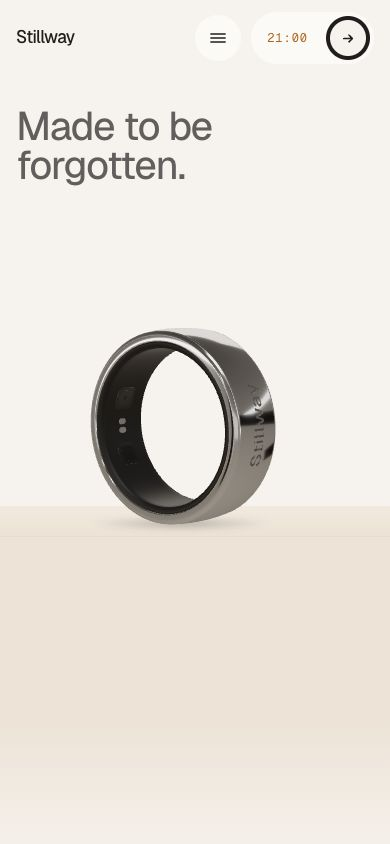
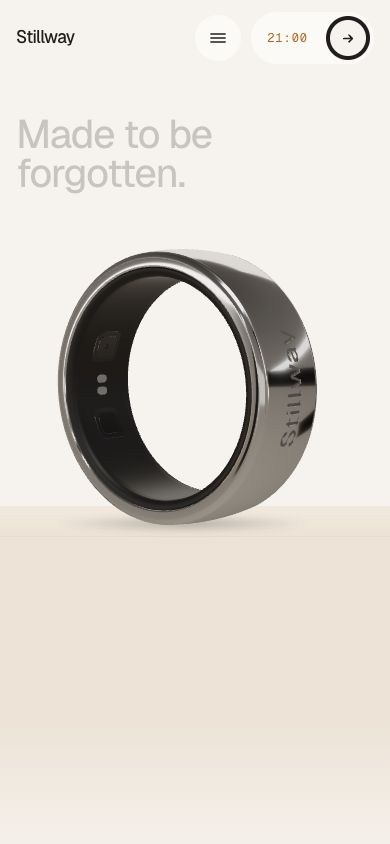
fix(web-v2): D-093 round 1 — bigger S06 ring, 3D ring stays on the finger, readable body and caption
- S06 states 1-3: the standing ring is the figure (60% of the height desktop,
  70vw phone), headline and steps stay clear on the left; contact shadow scales
- S06 state 4: no switch to A-1b (brushed); the polished 3D ring stays at the
  seat (D-085) and follows the hand card out in 06->07; finger proxy fixed
  (profile reversed + double sided, it now hides the back of the band) and a
  soft contact shadow under the band. A-1b only for reduced motion / no WebGL
- S06 body 15px Ink (as S04)
- S07 state 5: caption under 'Everyday' on a Paper chip, clear of the card
- reduced motion: polished still on the plinth for S06 states 1-3; dev-only
  ?reduced-test on localhost for review shots

Changed region(s): [[0.1231, 0.2773, 0.8308, 0.6161], [0.0308, 0.1232, 0.5538, 0.2464]]

diff --git a/web-v2/src/scripts/sections/details.ts b/web-v2/src/scripts/sections/details.ts
@@ -26,7 +26,8 @@ function layout(ctx: Ctx) {
   const W = window.innerWidth;
   const H = window.innerHeight;
   const m = ctx.mobile;
-  const D = m ? Math.min(W * 0.5, H * 0.26) : H * 0.3;
+  // D-093 r1: the standing ring is the figure of the screen (Ultrahuman ref ±55–65% of the height)
+  const D = m ? Math.min(W * 0.7, H * 0.36) : Math.min(H * 0.6, W * 0.36);
   const py = H * (m ? 0.6 : 0.74); // plinth top
   const face = H * 0.036;
   const cy = py + face * 0.55 - D / 2; // the ring stands on the middle of the top face
@@ -48,6 +49,12 @@ function setVars(ctx: Ctx) {
   root.style.setProperty('--hy', `${L.hy.toFixed(1)}px`);
   root.style.setProperty('--hs', L.hs.toFixed(4));
   root.style.setProperty('--py', `${L.py.toFixed(1)}px`);
+  // reduced motion / no WebGL: polished still (fb-s02, ring 84.6% of the image height) on the plinth
+  const fbw = L.D / 0.846;
+  const cx = (0.5 + (ctx.mobile ? -0.02 : 0.12)) * L.W;
+  root.style.setProperty('--fbw', `${fbw.toFixed(1)}px`);
+  root.style.setProperty('--fbx', `${(cx - 0.528 * fbw).toFixed(1)}px`);
+  root.style.setProperty('--fby', `${(L.py + L.face * 0.55 - 0.918 * fbw).toFixed(1)}px`);
   return L;
 }
 
@@ -62,8 +69,8 @@ const SIDE = { rx: 0, ry: -Math.PI / 2 + 0.08, rz: 0, spin: 0, pitch: 0.12 };
 const EDGE = { rx: 0, ry: -Math.PI / 4, rz: 0, spin: 0, pitch: 20 * D2R };
 
 function rollX(u: number, ctx: Ctx, L: ReturnType<typeof layout>) {
-  const start = ctx.mobile ? -0.42 : -0.5;
-  const stop = ctx.mobile ? -0.02 : 0.05;
+  const start = ctx.mobile ? -0.42 : -0.43;
+  const stop = ctx.mobile ? -0.02 : 0.12;
   const over = stop + (0.06 * L.D) / 2 / L.W;
   const t = ctx.reduced ? 1 : clamp01(u);
   // 0 → 22%: power2.out to a little past the stop; 22 → 25%: sine back (s06-pose.json rolling)
@@ -121,6 +128,51 @@ function fingerPose(slide: number, L: ReturnType<typeof layout>, extra: Partial<
   });
 }
 
+/**
+ * 06 → 07 (Storyboard §3): the hand photo shrinks into a card with rounded corners around the
+ * finger, moves to the centre (where S07's cards appear) and fades. leave 0..1 (eased).
+ */
+function cardLeave(leave: number, L: ReturnType<typeof layout>, ctx: Ctx) {
+  const k = seg(leave, 0, 0.55);
+  const cw = Math.min(L.W * (ctx.mobile ? 0.5 : 0.2), L.H * 0.36);
+  const ch = cw * 1.25;
+  const cx = L.seat.x;
+  const cy = L.hy + 300 * L.hs;
+  const mv = seg(leave, 0.15, 0.6);
+  return {
+    k,
+    t: lerp(0, cy - ch / 2, k),
+    b: lerp(0, L.H - (cy + ch / 2), k),
+    l: lerp(0, cx - cw / 2, k),
+    r: lerp(0, L.W - (cx + cw / 2), k),
+    mx: (L.W / 2 - cx) * mv,
+    my: (L.H / 2 - cy) * mv,
+    s: 1 - 0.35 * seg(leave, 0.2, 0.6),
+    o: 1 - seg(leave, 0.5, 0.7),
+  };
+}
+
+/** the 3D ring on the finger follows the card out (it is not part of the photo, D-093 r1) */
+export function detailsLeaveRing(x: number, ctx: Ctx): Pose {
+  const L = layout(ctx);
+  const leave = seg(x, 0, 1);
+  const c = cardLeave(leave, L, ctx);
+  const p = fingerPose(1, L, { shadow: 0 });
+  // card transform: translate(mx, my) scale(s) about the viewport centre
+  const sx = L.W / 2 + (L.seat.x - L.W / 2) * c.s + c.mx;
+  const sy = L.H / 2 + (L.seat.y - L.H / 2) * c.s + c.my;
+  return {
+    ...p,
+    x: fx(sx, L.W),
+    y: fy(sy, L.H),
+    w: p.w * c.s,
+    fx: fx(sx, L.W),
+    fy: fy(sy, L.H),
+    fs: p.fs * c.s,
+    alpha: c.o,
+  };
+}
+
 export const details: SectionMotion = {
   init(r) {
     root = r;
@@ -131,6 +183,7 @@ export const details: SectionMotion = {
       card: q('[data-d-card]'),
       hand: q('[data-d-hand]'),
       ringed: q('[data-d-ringed]'),
+      seatShadow: q('[data-d-seat]'),
       head: q('[data-d-head]'),
       fits: q('[data-d-fits]'),
       label: q('[data-d-label]'),
@@ -149,9 +202,12 @@ export const details: SectionMotion = {
       const p = plinthPose(Math.max(0, u), ctx, L);
       const wpx = L.D * (0.92 * Math.abs(Math.cos(p.ry)) + 0.36 * Math.abs(Math.sin(p.ry)));
       el.shadow.style.width = `${wpx.toFixed(1)}px`;
+      const sh = L.D * 0.07;
+      el.shadow.style.height = `${sh.toFixed(1)}px`;
+      el.shadow.style.top = `${(L.face * 0.55 - sh / 2).toFixed(1)}px`;
       el.shadow.style.left = `${((p.x + 0.5) * L.W - wpx / 2 + L.W * 0.04).toFixed(1)}px`;
     }
-    put(el.head, { o: window4(u, ctx.reduced ? -0.5 : 0.45, 0.75, 3.05, 3.35), y: (1 - seg(u, 0.45, 0.75)) * 16 }, ctx);
+    put(el.head, { o: window4(u, ctx.reduced ? -0.5 : 0.55, 0.85, 3.05, 3.35), y: (1 - seg(u, 0.55, 0.85)) * 16 }, ctx);
     steps.forEach((s, i) => {
       const a = 1.4 + i;
       put(s, { o: window4(u, a, a + 0.35, a + 0.85, a + 1.15), y: (1 - seg(u, a, a + 0.35)) * 14 }, ctx);
@@ -162,31 +218,21 @@ export const details: SectionMotion = {
 
     // hand: fades in with the end of the plinth, slight rise
     const hand = seg(u, 3.1, 3.5);
-    if (el.ringed) el.ringed.style.opacity = seg(u, 3.88, 3.98).toFixed(3);
+    // D-093 r1: the polished 3D ring stays on the finger (D-085); A-1b only without WebGL / reduced motion
+    const live = document.documentElement.classList.contains('ring-ready');
+    if (el.ringed) el.ringed.style.opacity = live ? '0' : seg(u, 3.88, 3.98).toFixed(3);
+    put(el.seatShadow, { o: live ? seg(u, 3.75, 3.92) : 0 }, ctx);
     // 06 → 07 (Storyboard §3): the hand photo shrinks into a card with rounded corners, then fades
-    const shrink = seg(leave, 0, 0.55);
     if (el.card && root) {
-      // card = portrait box around the finger, centred on the screen when it is done
-      const cw = Math.min(L.W * (ctx.mobile ? 0.5 : 0.2), L.H * 0.36);
-      const ch = cw * 1.25;
-      const cx = L.seat.x;
-      const cy = L.hy + 300 * L.hs;
-      const k = shrink;
-      const t = lerp(0, cy - ch / 2, k);
-      const b = lerp(0, L.H - (cy + ch / 2), k);
-      const l = lerp(0, cx - cw / 2, k);
-      const r = lerp(0, L.W - (cx + cw / 2), k);
+      const c = cardLeave(leave, L, ctx);
       const cs = el.card.style;
-      cs.setProperty('--ct', `${t.toFixed(1)}px`);
-      cs.setProperty('--cb', `${b.toFixed(1)}px`);
-      cs.setProperty('--cl', `${l.toFixed(1)}px`);
-      cs.setProperty('--cr', `${r.toFixed(1)}px`);
-      cs.setProperty('--cr0', `${(14 * k).toFixed(1)}px`);
-      cs.setProperty('--cbg', k > 0.001 ? '1' : '0');
-      // move the card toward the centre of the screen (where S07's Night card appears)
-      const mx = (L.W / 2 - cx) * seg(leave, 0.15, 0.6);
-      const my = (L.H / 2 - cy) * seg(leave, 0.15, 0.6);
-      put(el.card, { o: hand * (1 - seg(leave, 0.5, 0.7)), x: mx, y: my, s: 1 - 0.35 * seg(leave, 0.2, 0.6) }, ctx);
+      cs.setProperty('--ct', `${c.t.toFixed(1)}px`);
+      cs.setProperty('--cb', `${c.b.toFixed(1)}px`);
+      cs.setProperty('--cl', `${c.l.toFixed(1)}px`);
+      cs.setProperty('--cr', `${c.r.toFixed(1)}px`);
+      cs.setProperty('--cr0', `${(14 * c.k).toFixed(1)}px`);
+      cs.setProperty('--cbg', c.k > 0.001 ? '1' : '0');
+      put(el.card, { o: hand * c.o, x: c.mx, y: c.my, s: c.s }, ctx);
       put(el.hand, { o: 1, y: (1 - hand) * 30 }, ctx);
     }
   },
@@ -203,7 +249,7 @@ export const details: SectionMotion = {
     }
     const slide = seg(u, 3.55, 3.9);
     // the 3D ring hands over to the photo ring (A-1b) at the seat
-    return fingerPose(slide, L, { alpha: 1 - seg(u, 3.92, 4.0), shadow: 0 });
+    return fingerPose(slide, L, { shadow: 0 });
   },
   // 05 → 06 (Storyboard §3): the camera backs out of the ring — it shrinks (geometric, so it reads
   // as distance) and drops to the plinth on the left; the cast shadow lands as it touches down

diff --git a/web-v2/src/scripts/ring/stage.ts b/web-v2/src/scripts/ring/stage.ts
@@ -148,11 +148,11 @@ export async function createRingStage(canvas: HTMLCanvasElement): Promise<RingSt
   const SHADOW_DIR = new THREE.Vector3(0.55, 1, 0.75).normalize(); // V1 value
 
   /* S06 finger proxy (s06-pose.json fingerProxy): lathe around +Y in hand-photo px, y = 0 at the
-     ring seat; depth only, drawn before the ring so the back of the band hides behind the finger */
+     ring seat (profile reversed so the faces point outward, as ring-test/s06.html); depth only, drawn before the ring so the back of the band hides behind the finger */
   const PROFILE = [[0, 337], [15, 334], [28, 320], [35, 300], [38, 280], [40, 260], [42, 220], [44.6, 160], [48, 120], [47, 60], [46, 0], [48, -110], [0, -110]];
   const finger = new THREE.Mesh(
-    new THREE.LatheGeometry(PROFILE.map(([r, y]) => new THREE.Vector2(r * 0.96, y)), 48),
-    new THREE.MeshBasicMaterial({ colorWrite: false, depthWrite: true }),
+    new THREE.LatheGeometry(PROFILE.map(([r, y]) => new THREE.Vector2(r * 1.02, y)).reverse(), 48),
+    new THREE.MeshBasicMaterial({ colorWrite: false, depthWrite: true, side: THREE.DoubleSide }),
   );
   finger.renderOrder = -2;
   finger.visible = false;

diff --git a/web-v2/src/scripts/sections/specs.ts b/web-v2/src/scripts/sections/specs.ts
@@ -15,6 +15,7 @@
 import { put, seg, lerp, clamp01, smooth, type Ctx } from '../anim';
 import { pose } from '../ring/poses';
 import type { SectionMotion } from '../story';
+import { detailsLeaveRing } from './details';
 
 const END = 6.6;
 let root: HTMLElement | null = null;
@@ -242,5 +243,7 @@ export const specs: SectionMotion = {
   },
   // no 3D ring in S07 (it is only in the card photos)
   ring: () => pose({ x: 0.2, y: 0, w: 0.1, alpha: 0 }),
+  // 06 → 07: the polished ring stays on the finger while the hand photo shrinks into a card
+  ringIn: (x, ctx) => detailsLeaveRing(x, ctx),
 };
 

diff --git a/web-v2/src/scripts/motion.ts b/web-v2/src/scripts/motion.ts
@@ -20,7 +20,8 @@ export let lenis: Lenis | null = null;
 
 export function initMotion() {
   window.__stillwayMotion = true;
-  const reduced = window.matchMedia('(prefers-reduced-motion: reduce)').matches;
+  // dev only: ?reduced-test on localhost simulates prefers-reduced-motion (review screenshots)
+  const reduced = window.matchMedia('(prefers-reduced-motion: reduce)').matches || document.documentElement.classList.contains('reduced');
 
   if (!reduced) {
     lenis = new Lenis({ lerp: 0.09, smoothWheel: true, wheelMultiplier: 0.95 });
